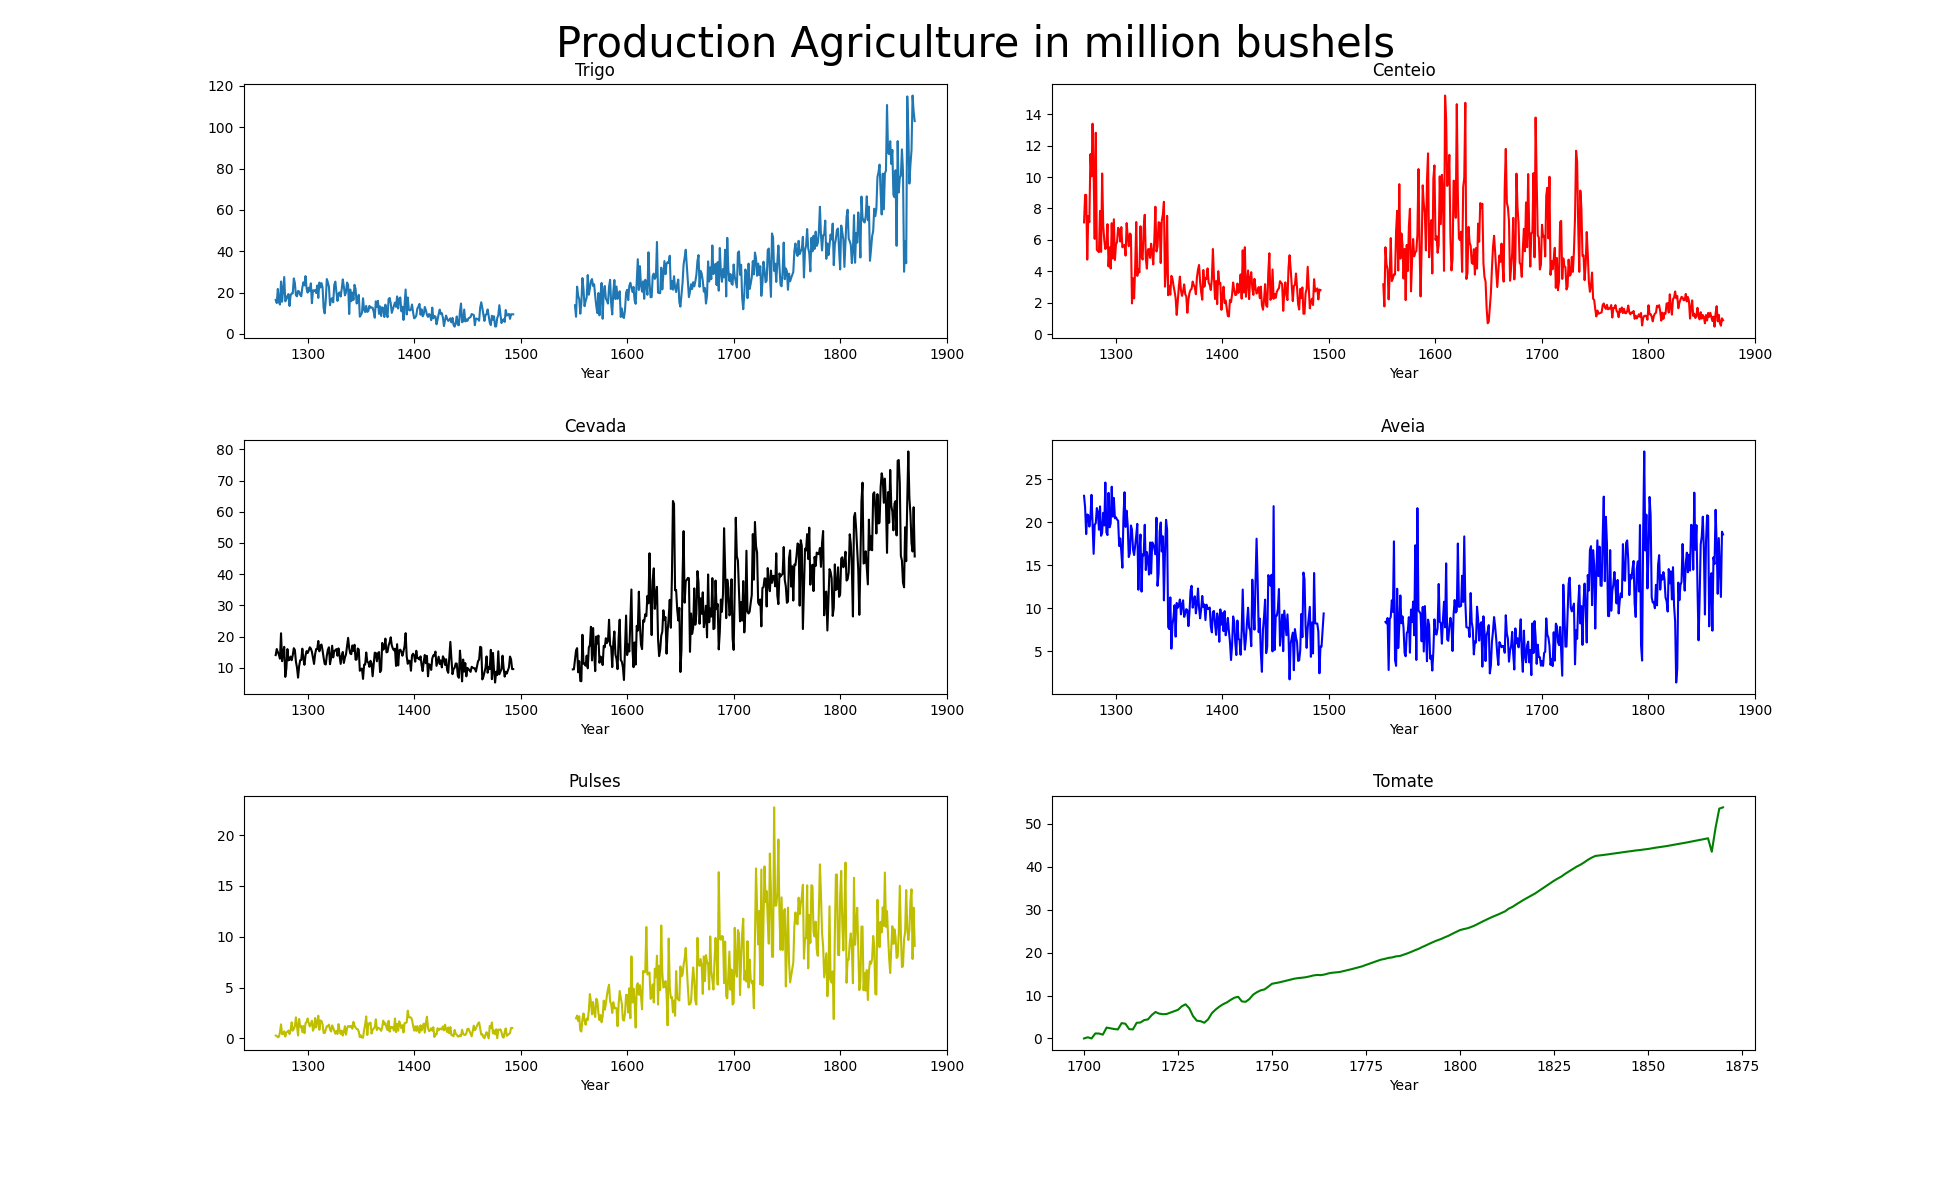
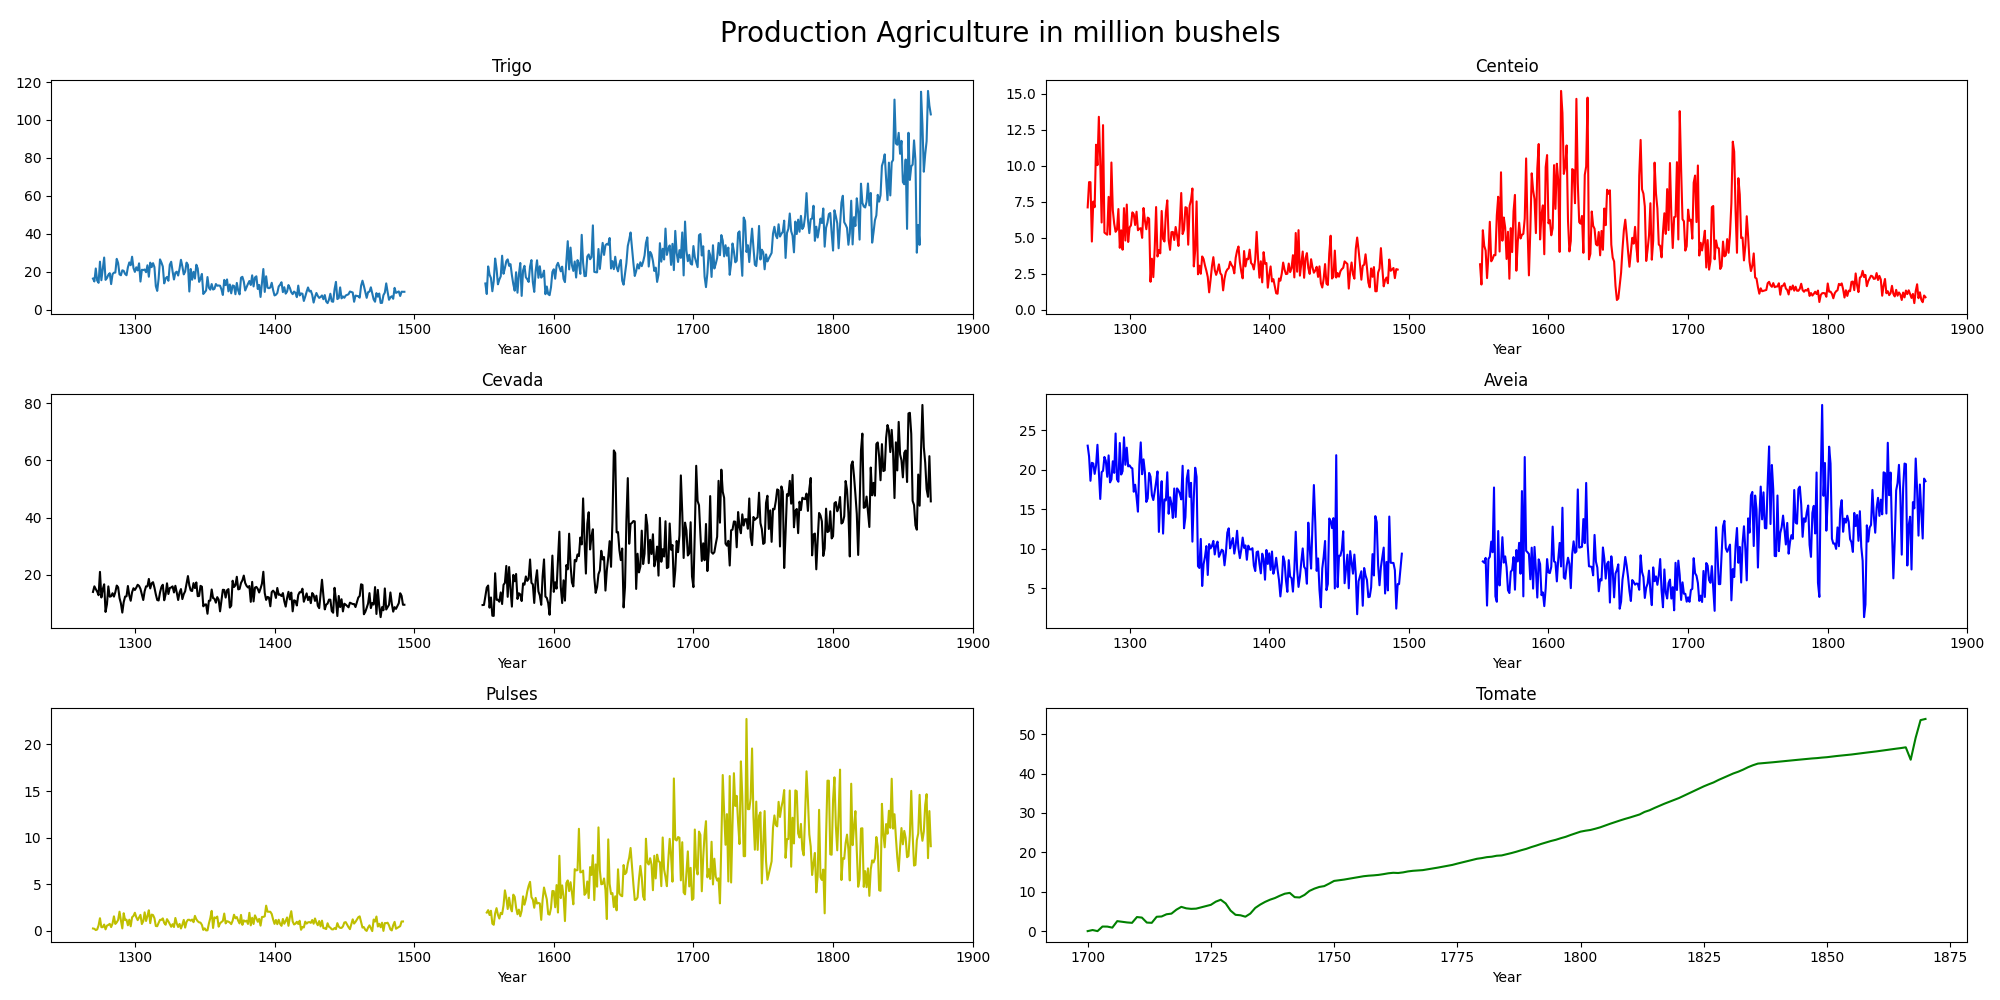
Correlação animais e população e ajuste de layou

diff --git a/Number_Animals_England.py b/Number_Animals_England.py
@@ -1,5 +1,6 @@
 import pandas as pd
 import matplotlib.pyplot as plt
+import seaborn as sn
 from Calculate_Century import find_century
 
 #Recebendo dados do google sheets
@@ -30,6 +31,7 @@ plt.title('Porco')
 plt.xlabel('Year')
 
 #Gráfico único
+plt.subplot(2, 2, 4)
 plt.plot(rebanhos_eng['Year'], rebanhos_eng['Cattle'], label='Gado')
 plt.plot(rebanhos_eng['Year'], rebanhos_eng['Sheep'], color='r', label='Ovelha')
 plt.plot(rebanhos_eng['Year'], rebanhos_eng['Pigs'], color='k', label='Porco')
@@ -38,8 +40,9 @@ plt.xlabel('Year')
 plt.legend()
 
 plt.suptitle("Number of animals in millions")
-plt.subplots_adjust(left=0.125, bottom=0.1, right=0.9, top=0.88, wspace=0.15, hspace=0.35)
+plt.tight_layout()
 plt.savefig('Number of animals in millions.png')
+plt.close()
 
 #Análise gráfica por século
 rebanhos_eng['Century'] = find_century(rebanhos_eng['Year'])
@@ -49,6 +52,8 @@ dados_Seculo['Sheep'] = rebanhos_eng.groupby(['Century'])['Sheep'].sum()
 dados_Seculo['Pigs'] = rebanhos_eng.groupby(['Century'])['Pigs'].sum()
 
 #Plotando gráfico de barras empilhadas
+plt.figure(figsize=(8, 6))
+plt.subplot(1, 2, 1)
 plt.bar(dados_Seculo.index, dados_Seculo['Cattle'], color='orange', label='Gado')
 plt.bar(dados_Seculo.index, dados_Seculo['Sheep'], label='Ovelha', bottom = dados_Seculo['Cattle'])
 plt.bar(dados_Seculo.index, dados_Seculo['Pigs'], color='g', label='Porco', bottom = dados_Seculo['Cattle'] + dados_Seculo['Sheep'])
@@ -59,6 +64,7 @@ plt.legend()
 dados_Seculo_pct = dados_Seculo.div(dados_Seculo.sum(axis=1), axis=0) * 100
 
 # Gráfico único de barras empilhadas com as porcentagens
+plt.subplot(1, 2, 2)
 plt.bar(dados_Seculo_pct.index, dados_Seculo_pct['Cattle'], color='orange', label='Gado')
 plt.bar(dados_Seculo_pct.index, dados_Seculo_pct['Sheep'], label='Ovelha', bottom = dados_Seculo_pct['Cattle'])
 plt.bar(dados_Seculo_pct.index, dados_Seculo_pct['Pigs'], color='g', label='Porco', bottom = dados_Seculo_pct['Cattle'] + dados_Seculo_pct['Sheep'])
@@ -66,4 +72,29 @@ plt.bar(dados_Seculo_pct.index, dados_Seculo_pct['Pigs'], color='g', label='Porc
 plt.xlabel('Century')
 plt.ylabel('Percentage')
 plt.suptitle("Number of animals Comparatade")
+plt.tight_layout()
 plt.savefig('Number of animals Comparatade.png')
+plt.close()
+
+# Calculando a matriz de correlação agri_eng e Population of England
+rebanhos_eng['Population of England'] = pd.DataFrame(pd.read_excel(URL, sheet_name = 'A2. Pop of Eng & GB 1086-1870', skiprows = range(0, 190), usecols = 'B'))
+rebanhos_eng.dropna(inplace=True)
+rebanhos_eng.reset_index(drop=True, inplace=True)
+rebanhos_eng = rebanhos_eng.astype(float)
+
+# Seleciona apenas a coluna 'Population of England' e as outras colunas do DataFrame
+colunas_selecionadas = ['Population of England'] + list(rebanhos_eng.columns.difference(['Population of England']))
+
+# Calcula a matriz de correlação apenas para as colunas selecionadas
+correlation_matrix = rebanhos_eng[colunas_selecionadas].corr()
+
+# Ordena a matriz de correlação com base nos valores da coluna 'Population of England'
+correlation_matrix_sorted = correlation_matrix.sort_values(by='Population of England', ascending=False)
+
+# Cria o mapa de calor da correlação ordenada
+plt.figure(figsize=(8, 6))
+sn.heatmap(correlation_matrix_sorted[['Population of England']], annot=True, cmap='coolwarm', fmt=".2f", linewidths=0.5, linecolor="k")
+plt.title("Correlation Heatmap - Population and Animals")
+plt.tight_layout()
+plt.savefig('Correlation Heatmap - Population and Animals.png')
+plt.close()

diff --git a/Agriculture_England.py b/Agriculture_England.py
@@ -14,7 +14,7 @@ agri_eng.drop(index = [0], inplace = True)
 agri_eng.reset_index(drop = True, inplace = True)
 
 #Plotando Gráfico de Série das produções agriculas
-plt.figure(figsize = ((19.5, 12)))
+plt.figure(figsize = ((20, 10)))
 plt.subplot(3, 2, 1)
 plt.plot(agri_eng['Year'], agri_eng['Wheat.1'], label='Trigo')
 plt.title('Trigo')
@@ -45,9 +45,10 @@ plt.plot(agri_eng['Year'], agri_eng['Potatoes.1'], color='g', label='Tomate')
 plt.title('Tomate')
 plt.xlabel('Year')
 
-plt.suptitle("Production Agriculture in million bushels", fontsize=30)
-plt.subplots_adjust(left=0.125, bottom=0.1, right=0.9, top=0.97, wspace=0.15, hspace=0.4)
+plt.suptitle("Production Agriculture in million bushels", fontsize=20)
+plt.tight_layout()
 plt.savefig('Production Agriculture in million bushels.png')
+plt.close()
 
 #Iniciando análise por séculos
 agri_eng['Century'] = find_century(agri_eng['Year'])
@@ -60,6 +61,7 @@ dados_Seculo['Pulses'] = agri_eng.groupby(['Century'])['Pulses.1'].sum()
 dados_Seculo['Potatoes'] = agri_eng.groupby(['Century'])['Potatoes.1'].sum()
 
 #Plotando gráfico de barras empilhadas
+plt.figure(figsize=(8, 6))
 plt.subplot(1, 2, 1)
 plt.bar(dados_Seculo.index, dados_Seculo['Wheat'], color='orange', label='Wheat')
 plt.bar(dados_Seculo.index, dados_Seculo['Rye'], color='purple', label='Rye', bottom = dados_Seculo['Wheat'])
@@ -68,7 +70,7 @@ plt.bar(dados_Seculo.index, dados_Seculo['Oats'], color='g', label='Oats', botto
 plt.bar(dados_Seculo.index, dados_Seculo['Pulses'], color='pink', label='Pulses', bottom = dados_Seculo['Wheat'] + dados_Seculo['Rye'] + dados_Seculo['Barley'] + dados_Seculo['Oats'])
 plt.bar(dados_Seculo.index, dados_Seculo['Potatoes'], label='Potatoes', bottom = dados_Seculo['Wheat'] + dados_Seculo['Rye'] + dados_Seculo['Barley'] + dados_Seculo['Oats'] + dados_Seculo['Pulses'])
 plt.xlabel('Century')
-plt.legend(fontsize=25)
+plt.legend()
 
 # Cálculo da porcentagem de cada produto em relação ao seu século
 dados_Seculo_pct = dados_Seculo.div(dados_Seculo.sum(axis=1), axis=0) * 100
@@ -83,12 +85,13 @@ plt.bar(dados_Seculo_pct.index, dados_Seculo_pct['Pulses'], color='pink', label=
 plt.bar(dados_Seculo_pct.index, dados_Seculo_pct['Potatoes'], label='Potatoes', bottom=dados_Seculo_pct['Wheat'] + dados_Seculo_pct['Rye'] + dados_Seculo_pct['Barley'] + dados_Seculo_pct['Oats'] + dados_Seculo_pct['Pulses'])
 plt.xlabel('Century')
 plt.ylabel('Percentage')
-plt.suptitle("Production Agriculture Comparatade", fontsize=30)
+plt.suptitle("Production Agriculture Comparatade")
+plt.tight_layout()
 plt.savefig('Production Agriculture Comparatade.png')
+plt.close()
 
 # Calculando a matriz de correlação agri_eng e Population of England
 agri_eng['Population of England'] = pd.DataFrame(pd.read_excel(URL, sheet_name = 'A2. Pop of Eng & GB 1086-1870', skiprows = range(0, 190), usecols = 'B'))
-agri_eng.drop(index=601, inplace=True)
 agri_eng['Potatoes.1'].fillna(0, inplace=True)
 agri_eng.dropna(inplace=True)
 agri_eng.reset_index(drop=True, inplace=True)
@@ -107,4 +110,6 @@ correlation_matrix_sorted = correlation_matrix.sort_values(by='Population of Eng
 plt.figure(figsize=(8, 6))
 sn.heatmap(correlation_matrix_sorted[['Population of England']], annot=True, cmap='coolwarm', fmt=".2f", linewidths=0.5, linecolor="k")
 plt.title("Correlation Heatmap - Population and Agriculture")
+plt.tight_layout()
 plt.savefig('Correlation Heatmap - Population and Agriculture.png')
+plt.close()
